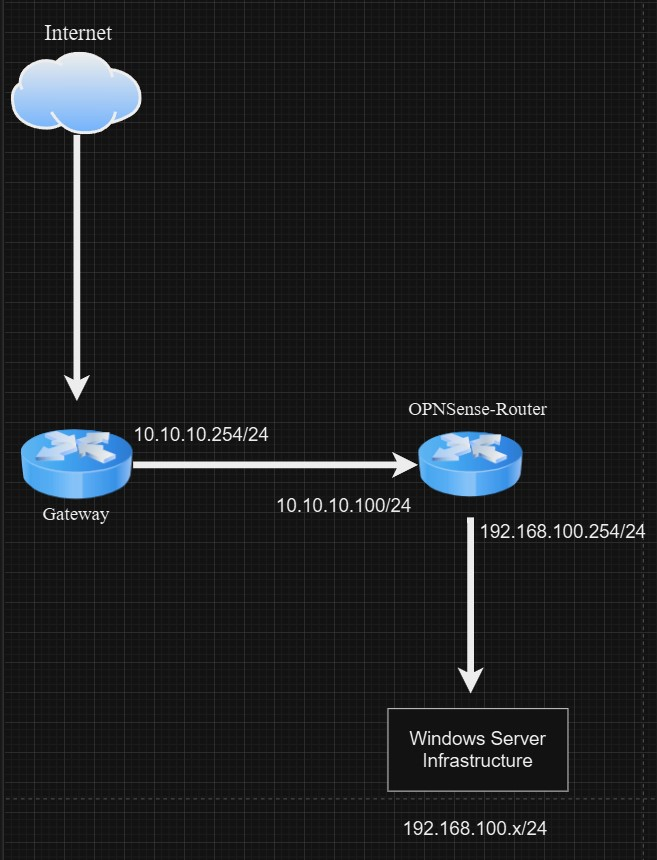
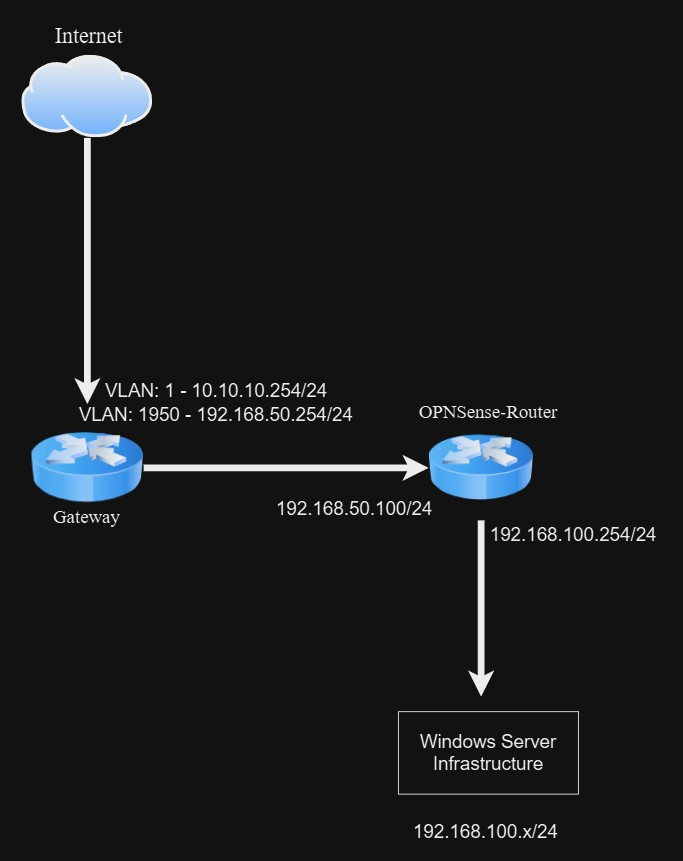
Adding all changes

Changed region(s): [[0.0, 0.0302, 1.0, 0.9977]]

diff --git a/site/HomeLab/Windows_Projects/opnsense/index.html b/site/HomeLab/Windows_Projects/opnsense/index.html
@@ -601,6 +601,15 @@
   
 </li>
       
+        <li class="md-nav__item">
+  <a href="#configuring-opnsense" class="md-nav__link">
+    <span class="md-ellipsis">
+      Configuring OPNSense
+    </span>
+  </a>
+  
+</li>
+      
     </ul>
   
 </nav>
@@ -945,6 +954,15 @@
   
 </li>
       
+        <li class="md-nav__item">
+  <a href="#configuring-opnsense" class="md-nav__link">
+    <span class="md-ellipsis">
+      Configuring OPNSense
+    </span>
+  </a>
+  
+</li>
+      
     </ul>
   
 </nav>
@@ -963,14 +981,12 @@
   <h1>OPNsense Install</h1>
 
 <h2 id="opnsense-router-setup">OPNSense Router Setup</h2>
-<p>This is an optional step if you're following allowing. The Idea behind this router is to give me my own seperate subnet for me to play with, without having to worry about conflicting IP addresses or an IP address that I would like to use but is already in use. The opnsense router is a simple setup except for a new Firewall Rules that will allow me to communication with my main subnet.</p>
+<p>This is an optional step if you're following allowing. The goal behind this router is to give me my own seperate subnet for me to play with, without having to worry about conflicting IP addresses or an IP address that I would like to use but is already in use. The opnsense router is a simple setup except for a some Firewall Rules that will allow me to communication with my main subnet.</p>
 <p>First thing we'll want to do is to download the ISO for opnsense. It can be found here: </p>
 <p><a href="https://opnsense.org/download/">Download OPNSense</a></p>
 <p>Perfect. I'm going to be uploading the OPNSense ISO File to my VMware ESXi Storage repository. Depending on where you are performing your installation, you'll need to ensure that your Virtual Machine is able to access the ISO since you'll need to mount it.</p>
 <p>First thing I will do will be to create my Virtual Machine for OPNSense</p>
-<ul>
-<li>In ESXi, I click <strong>Create/Register VM</strong> and then at the <strong>Select creation type</strong> I choose <strong>Create a new virtual Machine</strong></li>
-</ul>
+<p>In ESXi, I click <strong>Create/Register VM</strong> and then at the <strong>Select creation type</strong> I choose <strong>Create a new virtual Machine</strong></p>
 <p><a href="../images/opnsense_install/Create_VM1.jpg"><img alt="Select creation type" src="../images/opnsense_install/Create_VM1.jpg" /></a></p>
 <p>Next we will need to <strong>Select a name and Guest OS</strong>. I will choose the easy name and just call it <strong>opnsense-router</strong> for the guest OS I want to ensure that I choose the following:</p>
 <ul>
@@ -992,33 +1008,107 @@
 <li><strong>Network Adapter 2</strong></li>
 </ul>
 <p>Since this is a router, it will need two networking adapter. One for the WAN traffic to talk out to the internet and the other for the LAN traffic where my Windows Servers will exist.</p>
-<p>For my adapter settings. I basically create an internal network that is not able to talk to the main network (10.10.10.0/24), instead I want this network to go through the <strong>WAN interface</strong>. </p>
-<p>You can ignore my naming scheme for my network <strong>Prod-Net</strong> is on the 10.10.10.0/24 network and <strong>PGroup19100</strong> is on the 192.168.100.0/24 network. Of course, the name you gave your network makes a lot more sense that mine.</p>
+<p>For my adapter settings. I'll basically create an internal network that is not able to talk to the main network (192.168.50.0/24 and 10.10.10.0/24), instead I want this network to go through the <strong>WAN interface</strong>. </p>
+<p>You can ignore my naming scheme for my network <strong>PGroup1950</strong> is on the 192.168.50.0/24 network and <strong>PGroup19100</strong> is on the 192.168.100.0/24 network. Of course, the name you gave your network makes a lot more sense that mine.</p>
 <p><a href="../images/opnsense_install/create_vm4.jpg"><img alt="Select a name and guest OS" src="../images/opnsense_install/create_vm4.jpg" /></a></p>
 <p>Once you're done with this section you can click <strong>Next</strong> then <strong>Finish</strong></p>
 <p><a href="../images/opnsense_install/create_vm5.jpg"><img alt="Select a name and guest OS" src="../images/opnsense_install/create_vm5.jpg" /></a></p>
 <h2 id="installing-opnsense">Installing OPNsense</h2>
-<p>Okay, so we've just completed creating our Virtual Machine, next up we will need to install opnsense on the Virtual Machine that we've just created.</p>
+<p>Okay, so we've just completed the creation our Virtual Machine, next up we will need to install opnsense on the Virtual Machine that we've just created.</p>
 <p>In my ESXi host, I'm going to click on my newly create Virtual Machine called: <strong>opnsense-router</strong> and <strong>Start it up</strong></p>
 <p><a href="../images/opnsense_install/install-os1.jpg"><img alt="Installing OPNsense" src="../images/opnsense_install/install-os1.jpg" /></a></p>
-<p>You will see a very quick boot screen that gives you about 5 seconds to pause if needed. If your opnsense VM does not boot, you have an issue with the ISO image, try downloading it again maybe trying DVD instead of VGA or another option that it provides. It could also be your Virutal DVD drive is not being detected on your because you did not choose the correct <strong>Guest OS version</strong>.</p>
+<p>You will see a very quick boot screen that gives you about 5 seconds to pause if needed. If your opnsense VM does not boot, there might be an issue with the ISO image, try downloading it again maybe trying DVD instead of VGA or another option that it provides. It could also be your Virutal DVD drive is not being detected on your because you did not choose the correct <strong>Guest OS version</strong>.</p>
 <p>If it does boot successfully, you will see a screen like this:</p>
 <p><a href="../images/opnsense_install/install-os2.jpg"><img alt="Installing OPNsense" src="../images/opnsense_install/install-os2.jpg" /></a></p>
-<p>You might have noticed that <strong>LAN</strong> is assigned to <strong>VMX0</strong> and <strong>WAN</strong> is assigned to <strong>VMX1</strong>. The <strong>LAN</strong> has an IP address of <strong>192.168.1.1/24</strong> but there is nothing assigned to <strong>WAN</strong>. The reason this happened is because opnsense automatically assigned out interfaces for us, but to worry, we do not need to use the default settings that is applied to us. We can change this and many other settings as we go further. For now, we are going to install OPNSense on our virtual machine. To do that, at the screen we're currently on. If you've took the time to read you notice that it tells you what to do. You can sign into the <strong>live</strong> mode where you can make changes and configure the router but please note that changes made here will not survive a reboot. To ensure that our changes are kept we will need to install it. We do that by typing <strong>installer</strong> as the username and <strong>opnsense</strong> as the password. Once we do that the installation process begins:</p>
+<p>You might have noticed that OPNSense automatically assigned your <strong>WAN</strong> and <strong>LAN</strong> interfaces. Thankfully OPNSense assigned my interfaces correctly. My <strong>WAN</strong> interface was able to grab an IP address from my Mikrotik Router and my <strong>LAN</strong> interface received the default networking scheme that's created by opnsense.
+If your <strong>WAN</strong> interface does not have an IP address, this could be because opnsense incorrectly assigned your interfaces and they need to be swapped. You can swapped these after the installation since you're in a live environment and the changes you make here will not remain after a reboot.</p>
+<p>To Begin the installation, type <strong>installer</strong> as the username and <strong>opnsense</strong> as the password to begin the installation process.</p>
 <p>First thing, we need choose a <strong>Keymap Selection</strong> I will go with the default keymap but you can choose the one that works best for you:</p>
 <p><a href="../images/opnsense_install/install-os3.jpg"><img alt="Installing OPNsense" src="../images/opnsense_install/install-os3.jpg" /></a></p>
+<p>I'll choose <strong>ZFS</strong> as my filesystem here but you can any other of the options</p>
 <p><a href="../images/opnsense_install/install-os4.jpg"><img alt="Installing OPNsense" src="../images/opnsense_install/install-os4.jpg" /></a></p>
 <p>Next it will ask me to select the <strong>Virtual Device Type</strong>. Here I will choose <strong>stripe</strong>. I will assigned one hard drive to my opnsense installation so that's all I can do. Since this is just a test lab. I do not need to added security of having a mirror or a different RAID setup in the event of a drive failure. <strong>Stripe</strong> will work in my situation.</p>
 <p><a href="../images/opnsense_install/install-os5.jpg"><img alt="Installing OPNsense" src="../images/opnsense_install/install-os5.jpg" /></a></p>
 <p>Next it's going to ask me to confirm which hard drive I will like to install opnsense on. I only have one option so I will press my <strong>spacebar</strong> to select the device then click OK</p>
 <p><a href="../images/opnsense_install/install-os6.jpg"><img alt="Installing OPNsense" src="../images/opnsense_install/install-os6.jpg" /></a></p>
-<p>It warns me that the data on the disk is about the get destoryed, since this is a new disk that doesn't contain any data I will say yes.</p>
+<p>It warns me that the data on the disk is about the get destroyed, since this is a new disk that doesn't contain any data I will say yes.</p>
 <p><a href="../images/opnsense_install/install-os7.jpg"><img alt="Installing OPNsense" src="../images/opnsense_install/install-os7.jpg" /></a></p>
-<p>Click yes will begin the installation:</p>
+<p>Select <strong>Yes</strong> to begin the installation:</p>
 <p><a href="../images/opnsense_install/install-os8.jpg"><img alt="Installing OPNsense" src="../images/opnsense_install/install-os8.jpg" /></a></p>
-<p>If thers is any issues with the hardware you select, this will be where you will see it. It will error out and will stop the installation process. If this happens to you and you're using a physical hardware, ensure that the hardware you're using is compatible with OPNSense. For Virtual Machines, the biggest roadblock here is your hard drive. Ensure you have the correct Hard Drive Controller. For my installation I had <strong>VMWare Paravirtual</strong> selected as my <strong>SCSI Controller 0</strong>. If everything goes well, you will see this screen:</p>
-<p>If you would like to, you can change your root password here but I will complete install and reboot.</p>
+<p>If thers is any issues with the hardware you've selected, this will be where you will see it. It will error out and will stop the installation process. If this happens to you and you're using physical hardware, ensure that the hardware you're using is compatible with OPNSense. For Virtual Machines, the biggest roadblock here is your hard drive. Ensure you have the correct Hard Drive Controller. For my installation I had <strong>VMWare Paravirtual</strong> selected as my <strong>SCSI Controller 0</strong>. If everything goes well, you will see this screen:</p>
+<p>If you would like to, you can change your root password here but I will complete install and reboot since I will be changing the root password when I log into the web portal.</p>
 <p><a href="../images/opnsense_install/install-os9.jpg"><img alt="Installing OPNsense" src="../images/opnsense_install/install-os9.jpg" /></a></p>
+<h2 id="configuring-opnsense">Configuring OPNSense</h2>
+<p>Once your opnsense system is back online, you will be back to the main screen. However, this time it's not longer a live enviroment. And any change you make here will still exist after rebooting.</p>
+<p><a href="../images/opnsense_install/config-os1.jpg"><img alt="Installing OPNsense" src="../images/opnsense_install/config-os1.jpg" /></a></p>
+<p>Let's start configuring our OPNSense Router. First thing we'll log in using the username and credentials. The username is <strong>root</strong> and the password is <strong>opnsense</strong> if you changed it during the installation you can enter the password you created.</p>
+<p>Logging in will display information about your Network interfaces and IP adderss as well as a menu where you can configure the system.</p>
+<p><a href="../images/opnsense_install/config-os2.jpg"><img alt="Installing OPNsense" src="../images/opnsense_install/config-os2.jpg" /></a></p>
+<p>If your Network Interfaces needs to be swapped, this is where you can do it. For example, if you have a IP Address for your <strong>LAN</strong> interface but nothing for your <strong>WAN</strong> interface. Then it's possible that opnsense incorrectly assigned your interfaces, so swapping them should resolve your issue.</p>
+<p>To do that, Enter the number <strong>1</strong> and press enter:</p>
+<p><a href="../images/opnsense_install/config-os3.jpg"><img alt="Installing OPNsense" src="../images/opnsense_install/config-os3.jpg" /></a></p>
+<p>It will ask you if you want to configure <strong>LAGGs</strong> now, if you know what this is and would like to configure it, you can say yes, if you don't know what this is, you can say no. Notice the <strong>N</strong> is uppercase and the <strong>y</strong> is lowercase.
+This is because <strong>N</strong> is the default value so if you just press enter, it will select no by default.</p>
+<p><a href="../images/opnsense_install/config-os4.jpg"><img alt="Installing OPNsense" src="../images/opnsense_install/config-os4.jpg" /></a></p>
+<p>Next it will ask to configure <strong>VLANs</strong>. I will not be using any VLANs for this router so I will say <strong>no</strong>.</p>
+<p><a href="../images/opnsense_install/config-os5.jpg"><img alt="Installing OPNsense" src="../images/opnsense_install/config-os5.jpg" /></a></p>
+<p>Now it will ask you to select your <strong>WAN</strong> interface. Your <strong>WAN</strong> interface is what connects to your gateway that then connects out to the internet. For my setup, the <strong>WAN</strong> interface is <strong>vxm1</strong>. If you mess up here, don't worry you can always go back and change the interfaces.</p>
+<p><a href="../images/opnsense_install/config-os6.jpg"><img alt="Installing OPNsense" src="../images/opnsense_install/config-os6.jpg" /></a></p>
+<p>After selecting my <strong>WAN</strong> interface, it will ask me to select my <strong>LAN</strong> which is <strong>vmx0</strong></p>
+<p><a href="../images/opnsense_install/config-os7.jpg"><img alt="Installing OPNsense" src="../images/opnsense_install/config-os7.jpg" /></a></p>
+<p>It will ask your to configure an Optional Interface next, since I only have 2 interfaces, I'm not able to configure an optional interface. So I will press enter to proceed.</p>
+<p><a href="../images/opnsense_install/config-os8.jpg"><img alt="Installing OPNsense" src="../images/opnsense_install/config-os8.jpg" /></a></p>
+<p>Once I'm done with all of my configuration. I will type <strong>y</strong> to proceed. Remember you have to enter <strong>y</strong> then press enter. If you just press enter it will select the default option which is <strong>N</strong>. </p>
+<p><a href="../images/opnsense_install/config-os9.jpg"><img alt="Installing OPNsense" src="../images/opnsense_install/config-os9.jpg" /></a></p>
+<p>Proceeding with the changes, will reload all of the interfaces. Once it's completed, you'll be back at the main screen. From here, hopefully you've been assigned a <strong>WAN</strong> IP address not. if not, and you've already tried swapping your interfaces and you're using a virtual appliance like I am, you might need to take another look at your virtual switch and port groups. Something might be off. You can trying assigned a manual IP address and see if that works. If it does and it looks like it's an issue with your DHCP Service.</p>
+<p>To set your IP address interface, select <strong>(2) Set Interface IP Address</strong> and press <strong>Enter</strong></p>
+<p><a href="../images/opnsense_install/config-os10.jpg"><img alt="Installing OPNsense" src="../images/opnsense_install/config-os10.jpg" /></a></p>
+<p>From here it will ask you select the interface you would like to configure. I'll start with my <strong>LAN</strong> interface, so I will type 1 and press <strong>Enter</strong></p>
+<p><a href="../images/opnsense_install/config-os11.jpg"><img alt="Installing OPNsense" src="../images/opnsense_install/config-os11.jpg" /></a></p>
+<p>First you will be ask if you would like to configure your <strong>LAN</strong> using DHCP. DHCP started for the <strong>Dynamic Host Configuration Protocol</strong> and it's responsible for automatically handing out IP addresses. I personally did not preconfigure any other DHCP service on my network so I will say no in this situation. If you're not sure you're I would go with no as well.</p>
+<p><a href="../images/opnsense_install/config-os12.jpg"><img alt="Installing OPNsense" src="../images/opnsense_install/config-os12.jpg" /></a></p>
+<p>Next it will ask you for your LAN IP address. I personally like to use the last IP Address in the subnet as my IP address for my routers and gateway, but you can use any that you like. First, last or somewhere in the middle.</p>
+<p>This will be the networking scheme I will be using:</p>
+<ul>
+<li>IP address: 192.168.100.254</li>
+<li>Subnet Mask: 255.255.255.0 or 24 bits as it will ask.</li>
+<li>Gateway: None</li>
+</ul>
+<p>The last option it ask if for an upstream gateway. For your LAN you don't have to enter anything here as your <strong>WAN</strong> interface will be responsible for forwarding your traffic to the internet. you can just press <strong>Enter</strong> here.</p>
+<p><a href="../images/opnsense_install/config-os13.jpg"><img alt="Installing OPNsense" src="../images/opnsense_install/config-os13.jpg" /></a></p>
+<p>For <strong>IPv6 address LAN interface via WAN tracking</strong> I will just accept the defaults.</p>
+<p><a href="../images/opnsense_install/config-os14.jpg"><img alt="Installing OPNsense" src="../images/opnsense_install/config-os14.jpg" /></a></p>
+<p>For the option to <strong>enable the DHCP server on LAN?</strong> I will say <strong>y</strong>. If you went ahead and said no, that's okay as well. It means you will just have to assign your IP address manually but this can be changed later on when we log into the web portal.</p>
+<p>It will ask for a range of IP addresses. By default a /24 or 255.255.255.0 subnet will give you 254 IP addresses that can be used. Since I'm using 192.168.100.254 as my router <strong>LAN</strong> IP address my range will be from 192.168.100.1-192.168.100.253.</p>
+<p>So for the questions - <strong>Enter the start address of the IPv4 client address range:</strong> I will enter: <strong>192.168.100.1</strong> and for the <strong>End IP address</strong> I will enter <strong>192.168.100.253</strong></p>
+<p>Once I'm happy with my choices I will press <strong>Enter</strong> to proceed. </p>
+<p><a href="../images/opnsense_install/config-os15.jpg"><img alt="Installing OPNsense" src="../images/opnsense_install/config-os15.jpg" /></a></p>
+<p>For the other Questions:</p>
+<p><strong>Do you want to change the web GUI protocol from https to http?</strong>: <strong>no</strong> - accept the default
+<strong>Do you want to generate a new self-signed web GUI certificate?</strong> : <strong>no</strong> - I will choose no here, but if you are having certificate issues, you can say yes.
+<strong>Restore web GUI access defaults?</strong> - <strong>no</strong> - You can say yes, if you're having issues with the web GUI.</p>
+<p><a href="../images/opnsense_install/config-os16.jpg"><img alt="Installing OPNsense" src="../images/opnsense_install/config-os16.jpg" /></a></p>
+<p>Once you're done all of your selections, you can proceed. Opnsense will do another reload to apply the configurations you've just selected.</p>
+<p><strong>Now let's configure our WAN Interface</strong></p>
+<p>Select option <strong>2</strong>: similar to how we did when we configured the <strong>LAN</strong> and then select option <strong>2</strong> to configure your <strong>WAN</strong> interface.</p>
+<p><a href="../images/opnsense_install/config-os17.jpg"><img alt="Installing OPNsense" src="../images/opnsense_install/config-os17.jpg" /></a></p>
+<p>First question it will ask is if you want to configure your <strong>WAN</strong> interface to use DHCP. I will say no to maually set my IP address. For my <strong>WAN</strong> configuration. I will use the following:</p>
+<ul>
+<li><strong>IP address</strong> - 192.168.50.100</li>
+<li><strong>Subnet Mask</strong> - 255.255.255.0</li>
+<li><strong>Gateway</strong> - 192.168.50.254</li>
+</ul>
+<p><strong>Do you want to use the gateway as the IPv4 name server, too?</strong> - I will choose <strong>n</strong> here.</p>
+<p>For the name server I will use: <strong>1.1.1.1</strong></p>
+<p>Opnsense will ask you a few questions about configuring the GUI. you can say no to all of these as you won't be logging into the GUI using the <strong>WAN</strong> IP address. OPNsense by default blocks GUI access through the <strong>WAN</strong></p>
+<p><strong>Configure IPv6 address WAN interface via DHCP6?</strong> - <strong>no</strong></p>
+<p><strong>Do you want to change the web GUI protocol from https to http?</strong>: <strong>no</strong></p>
+<p><strong>Do you want to generate a new self-signed web GUI certificate?</strong> : <strong>no</strong></p>
+<p><strong>Restore web GUI access defaults?</strong> - <strong>no</strong></p>
+<p><a href="../images/opnsense_install/config-os19.jpg"><img alt="Installing OPNsense" src="../images/opnsense_install/config-os19.jpg" /></a></p>
+<p>Once again. Opnsense will reload to apply the settings you just configured. </p>
+<p>At point this, your opnsense router is fully configured to help be the gateway for the new Windows Server Lab we will build. Once again, this is an optional step. you don't have to do this, as you can just use any free IP address to configure your Windows Servers. However, there is still more to be done with our router.</p>
+<p>If you've made it this far. Thank you for reading. Next up we will start to configure out Windows Servers.</p>
 
 
 

diff --git a/site/HomeLab/Windows_Projects/Windows_Server_Install/WinSrvInstall/index.html b/site/HomeLab/Windows_Projects/Windows_Server_Install/WinSrvInstall/index.html
@@ -74,7 +74,7 @@
     <div data-md-component="skip">
       
         
-        <a href="#here-i-will-be-showing-you-how-to-install-a-windows-server" class="md-skip">
+        <a href="#windows-server-installation" class="md-skip">
           Skip to content
         </a>
       
@@ -647,9 +647,18 @@
     <ul class="md-nav__list" data-md-component="toc" data-md-scrollfix>
       
         <li class="md-nav__item">
-  <a href="#here-i-will-be-showing-you-how-to-install-a-windows-server" class="md-nav__link">
+  <a href="#windows-server-installation" class="md-nav__link">
     <span class="md-ellipsis">
-      Here I will be showing you how to install a Windows Server
+      Windows Server Installation
+    </span>
+  </a>
+  
+</li>
+      
+        <li class="md-nav__item">
+  <a href="#creating-a-virtual-machine-for-windows-server-2022" class="md-nav__link">
+    <span class="md-ellipsis">
+      Creating a Virtual Machine for Windows Server 2022
     </span>
   </a>
   
@@ -919,9 +928,18 @@
     <ul class="md-nav__list" data-md-component="toc" data-md-scrollfix>
       
         <li class="md-nav__item">
-  <a href="#here-i-will-be-showing-you-how-to-install-a-windows-server" class="md-nav__link">
+  <a href="#windows-server-installation" class="md-nav__link">
     <span class="md-ellipsis">
-      Here I will be showing you how to install a Windows Server
+      Windows Server Installation
+    </span>
+  </a>
+  
+</li>
+      
+        <li class="md-nav__item">
+  <a href="#creating-a-virtual-machine-for-windows-server-2022" class="md-nav__link">
+    <span class="md-ellipsis">
+      Creating a Virtual Machine for Windows Server 2022
     </span>
   </a>
   
@@ -944,7 +962,13 @@
 
   <h1>Windows Server Installation</h1>
 
-<h2 id="here-i-will-be-showing-you-how-to-install-a-windows-server">Here I will be showing you how to install a Windows Server</h2>
+<h2 id="windows-server-installation">Windows Server Installation</h2>
+<p>Welcome to your first hands-on experience with Windows Server if you've never used it before. Here I will be going through the installation process with you to get an idea as to what to look for. We will be installation Windows Server 2022 as it's currently the one I'm most comfortable with. I will going a blog write up of Windows Server 2025 when time permits.</p>
+<p>First things first. Let's grab a copy of Windows Server 2022. You can find that here: <a href="https://www.microsoft.com/en-us/evalcenter/download-windows-server-2022">Download Windows Server 2022</a></p>
+<p>As with my opnsense router. I will be creating a Virtual Machine using my ESXi server.</p>
+<h2 id="creating-a-virtual-machine-for-windows-server-2022">Creating a Virtual Machine for Windows Server 2022</h2>
+<p>Click Create/Register VM</p>
+<p><a href="../images/create-vm1.jpg"><img alt="Select creation type" src="../images/create-vm1.jpg" /></a></p>
 
 
 

diff --git a/site/HomeLab/Windows_Projects/Project_Goals/index.html b/site/HomeLab/Windows_Projects/Project_Goals/index.html
@@ -978,6 +978,7 @@
 <p>I'm able to build a few virtual machines using these resouces.</p>
 <p>I'll briefly go through how the networking is setup. My Gateway is my home router. It's a Mikrotik Router. It's currently setup in Bridge Mode so my public IP address is managed on my router. The OPNSense-Router there is actually a Virtual Machine on my ESXi Server. I choose to use another router because my Mikrotik Router handles all the routing for my personal devices, so I prefer to have a separate network for all of my Windows Server since some servers can be chatty. Also, I don't need to worry about conflicting IP addresses within my Networking, I can just freely assigned any IP address I choose to whichever server I feel will be best. Since I am double NAT, I will need to add a few networking rules here and there to ensure that I can communication back and forth between the 10.10.10.0/24 and the 192.168.100.0/24 network.</p>
 <p>If you're interested you can see how I setup my opnsense router here.</p>
+<p>My Mikrotik router has a few VLANs on it. 10.10.10.0/24 is my main VLAN that all of my personal devices are on, VLAN 1950 with the subnet: 192.168.50.0/24, it a test subnet that I use for testing different servers and devices that I don't want on my main network. Subnet: 192.168.100.0/254 will be the network all of my Windows Devices will exist on.</p>
 <p>This is what my networking looks like:</p>
 <p><a href="../images/Windows_Server_Networking.jpg"><img alt="Networking Setup" src="../images/Windows_Server_Networking.jpg" /></a></p>
 

diff --git a/site/js/open-new-tab.js b/site/js/open-new-tab.js
@@ -1,0 +1,3 @@
+document.querySelectorAll('a[href]').forEach(link => {
+    link.setAttribute('target', '_blank');
+});

diff --git a/docs/HomeLab/Windows_Projects/Windows_Server_Install/WinSrvInstall.md b/docs/HomeLab/Windows_Projects/Windows_Server_Install/WinSrvInstall.md
@@ -1,3 +1,31 @@
 ## Windows Server Installation
 
-Welcome to your first hands-on experience with Windows Server if you've never used it before. Here I will be going through the installation process with you to get an idea as to what to look for. We will be installation Windows Server 2022. If you're asking, why not 2025 the latest. Well 
+Welcome to your first hands-on experience with Windows Server if you've never used it before. Here I will be going through the installation process with you to get an idea as to what to look for. We will be installation Windows Server 2022 as it's currently the one I'm most comfortable with. I will going a blog write up of Windows Server 2025 when time permits.
+
+First things first. Let's grab a copy of Windows Server 2022. You can find that here: [Download Windows Server 2022](https://www.microsoft.com/en-us/evalcenter/download-windows-server-2022)
+
+As with my opnsense router. I will be creating a Virtual Machine using my ESXi server.
+
+## Creating a Virtual Machine for Windows Server 2022
+
+Click Create/Register VM
+
+[![Select creation type](images/create-vm1.jpg)](images/create-vm1.jpg)
+
+Select **Create a new virtual machine** and then click **NEXT**
+
+**Select a name and guest OS**
+
+I'm planning on making this server my domain controller so I will call it DC-01. The rest of the details are as follows:
+
+- **Compatibility**: ESXi 8.0 U2 virtual machine
+- **Guest OS family**: Windows
+- **Guest OS Version**: Microsoft Windows Server 2022 (64-bit)
+
+
+
+
+
+
+
+

diff --git a/docs/HomeLab/Windows_Projects/opnsense.md b/docs/HomeLab/Windows_Projects/opnsense.md
@@ -221,9 +221,9 @@ Opnsense will ask you a few questions about configuring the GUI. you can say no 
 
 [![Installing OPNsense](images/opnsense_install/config-os19.jpg)](images/opnsense_install/config-os19.jpg)
 
-Once again. Opnsense will reload to apply the settings you just configured.
+Once again. Opnsense will reload to apply the settings you just configured. 
 
-At point this, your opnsense router is fully configured to help be the gateway for the new Windows Server Lab we will build. Once again, this is an optional step. you don't have to do this, as you can just use any free IP address to configure your Windows Servers. 
+At point this, your opnsense router is fully configured to help be the gateway for the new Windows Server Lab we will build. Once again, this is an optional step. you don't have to do this, as you can just use any free IP address to configure your Windows Servers. However, there is still more to be done with our router.
 
 If you've made it this far. Thank you for reading. Next up we will start to configure out Windows Servers.
 
